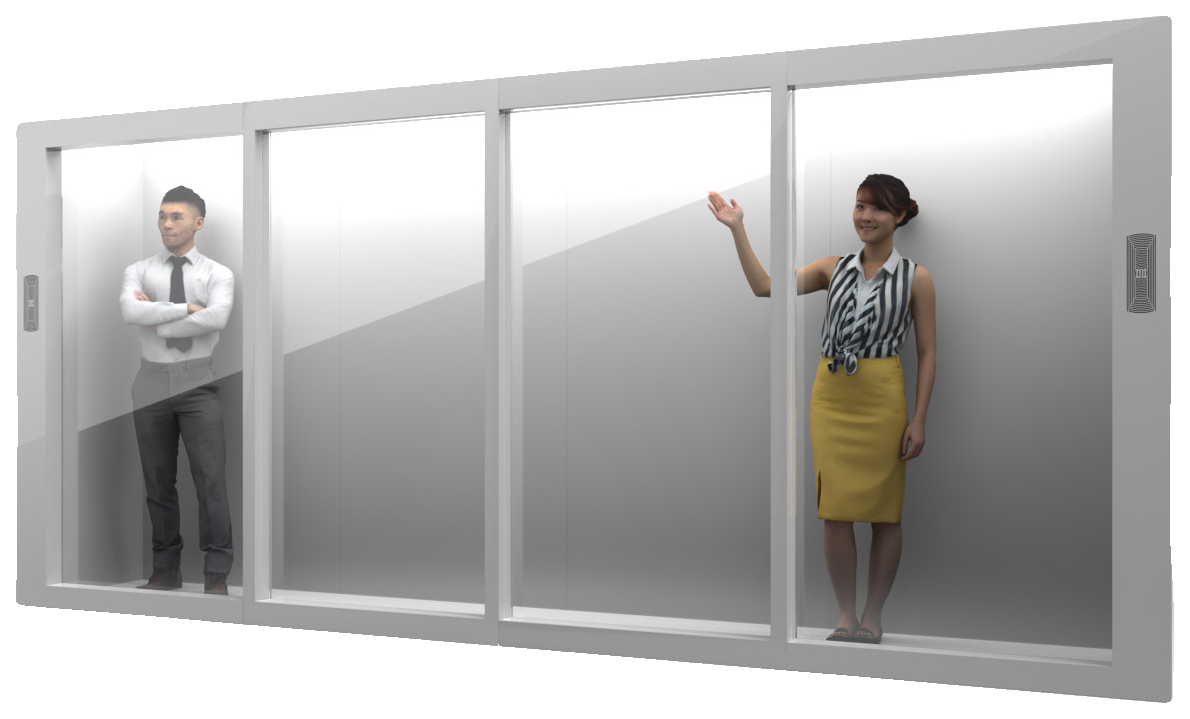
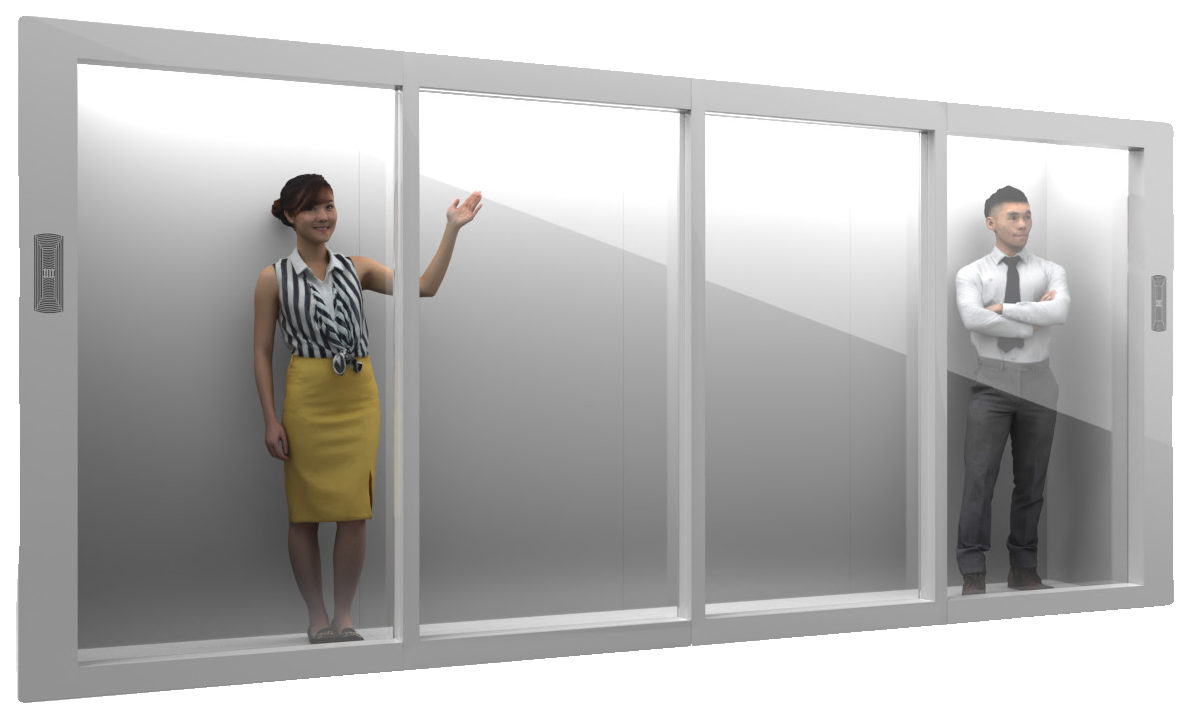
Holobox imagery: uniform model/direction across range + configurator
- 22" now uses the cabinet render scaled (no front speaker, same left-facing
  angle, clean cut-out) instead of the right-facing Mini render.
- Hologrid render mirrored so the wall recedes the same way as the boxes.
- Configurator: every size uses one whole, left-facing render; dropped the
  mixed straight-front/angled matrix + translate that clipped the box to half.

diff --git a/src/data/site.ts b/src/data/site.ts
@@ -171,7 +171,7 @@ export const products: Product[] = [
       en: "A compact table model designed for product placement and showcasing smaller features with the same striking holographic depth.",
       nl: "Een compact tafelmodel ontworpen voor productplaatsing en het tonen van kleinere details met dezelfde opvallende holografische diepte.",
     },
-    image: "/images/holobox-mini-cut.png",
+    image: "/images/holobox-black.png",
     specs: [
       { label: { en: "Format", nl: "Formaat" }, value: { en: "Table model", nl: "Tafelmodel" } },
       { label: { en: "Use", nl: "Gebruik" }, value: { en: "Product placement", nl: "Productplaatsing" } },